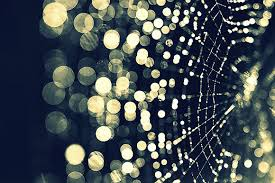
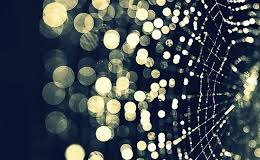
Made adjustments to add responsiveness to the page.  Resized project images to same dimensions.  Fixed CSS typo and inconsistant indentation.

diff --git a/index.html b/index.html
@@ -1,50 +1,51 @@
 <!DOCTYPE HTML>
 <html>
-  <head>
-  	<meta charset="utf-8">
-  	<title>Projects Portfolio</title>
-  	<link rel="stylesheet" type="text/css" href="css/main.css">
-  	<link href='http://fonts.googleapis.com/css?family=Lato:100,300' rel='stylesheet' type='text/css'>
-  </head>
-  <body>
-  	<div class="grid">
-	  	<div class="row">
-	  		<div class="col-6">
-                <img class="udacity-logo" src="img/udacity-logo.png" alt="Udacity Logo">
-	  		</div>
-	  		<div class="col-6">
-	  	        <h1>YANNICK DUBUC</h1>
-	  	        <h4>FRONT-END NINJA</h4>
-	  		</div>
-	  	</div>
-	  	<hr>
-	    <div class="row">
-	    	<div class="col-12">
-	    		<img class="main-image" src="img/codestreams.jpg" alt="Code Streams">
-	    	</div>
-	    </div>
-	    <div class="row">
-	    	<div class="col-12">
-	    		<h2>Featured Work</h2>
-	    	</div>
-	    </div>
-	    <div class="row">
-	    	<div class="col-4">
-                <img class="project-image" src="img/appify.jpg" alt="Appify">
-                <h3>APPIFY</h3>
-                <p>https://github.com/udacity/Appify</p>
-	    	</div>
-	    	<div class="col-4">
-                <img class="project-image" src="img/sunflower.jpg" alt="Sunflower">
-                <h3>SUNFLOWER</h3>
-                <p>https://github.com/udacity/Sunflower</p>
-	    	</div>
-	    	<div class="col-4">
-                <img class="project-image" src="img/bokeh.jpg" alt="Bokeh">
-                <h3>BOKEH</h3>
-                <p>https://github.com/udacity/Bokeh</p>
-	    	</div>
-	    </div>
-    </div>
-  </body>
+    <head>
+        <meta charset="utf-8">
+        <meta name="viewport" content="width=device-width, initial-scale=1">
+        <title>Projects Portfolio</title>
+        <link rel="stylesheet" type="text/css" href="css/main.css">
+        <link href='http://fonts.googleapis.com/css?family=Lato:100,300' rel='stylesheet' type='text/css'>
+    </head>
+    <body>
+        <div class="grid">
+            <div class="row">
+                <div class="col-2">
+                    <img class="udacity-logo" src="img/udacity-logo.png" alt="Udacity Logo">
+                </div>
+                <div class="col-10">
+                    <h1>YANNICK DUBUC</h1>
+                    <h4>FRONT-END NINJA</h4>
+                </div>
+            </div>
+            <hr>
+            <div class="row">
+                <div class="col-12">
+                    <img class="main-image" src="img/codestreams.jpg" alt="Code Streams">
+                </div>
+            </div>
+            <div class="row">
+                <div class="col-12">
+                    <h2>Featured Work</h2>
+                </div>
+            </div>
+            <div class="row">
+                <div class="col-4">
+                    <img class="project-image" src="img/appify.jpg" alt="Appify">
+                    <h3>APPIFY</h3>
+                    <p>https://github.com/udacity/Appify</p>
+                </div>
+                <div class="col-4">
+                    <img class="project-image" src="img/sunflower.jpg" alt="Sunflower">
+                    <h3>SUNFLOWER</h3>
+                    <p>https://github.com/udacity/Sunflower</p>
+                </div>
+                <div class="col-4">
+                    <img class="project-image" src="img/bokeh.jpg" alt="Bokeh">
+                    <h3>BOKEH</h3>
+                    <p>https://github.com/udacity/Bokeh</p>
+                </div>
+            </div>
+        </div>
+    </body>
 </html>

diff --git a/css/main.css b/css/main.css
@@ -1,23 +1,62 @@
 /** {
-	border: 1px solid red !important;
+    border: 1px solid red !important;
 } */
 
 * {
-	-webkit-box-sizing: border-box;
-	-moz-box-sizing: border-box;
-	-ms-box-sizing: border-box;
+    -webkit-box-sizing: border-box;
+    -moz-box-sizing: border-box;
+    -ms-box-sizing: border-box;
     box-sizing: border-box;
 }
 
 * {
-	font-family: 'Lato', sans-serif;
+    font: normal 100% 'Lato', sans-serif;
 }
 
-/* @media only screen and (max-width: 500px) {
-	p {
-		background-color: red;
-	}
-} */
+/* Small screen */
+@media only screen and (max-width: 500px) {
+    h1 {
+        font-size: 30px;
+    }
+
+    h3 {
+        font-size: 18px;
+    }
+
+    p {
+        font-size: 6px;
+    }
+}
+
+/* Medium screen */
+@media only screen and (min-width: 501px) and (max-width: 720px) {
+    h1 {
+        font-size: 40px;
+    }
+
+    h3 {
+        font-size: 24px;
+    }
+
+    p {
+        font-size: 10px;
+    }
+}
+
+/* Large screen */
+@media only screen and (min-width: 721px) {
+    h1 {
+        font-size: 50px;
+    }
+
+    h3 {
+        font-size: 30px;
+    }
+
+    p {
+        font-size: 14px;
+    }
+}
 
 .grid {
     max-width: 960px;
@@ -25,118 +64,115 @@
 }
 
 .row {
-	width: 100%;
-	display: flex;
-	flex-wrap; wrap;
+    width: 100%;
+    display: flex;
+    flex-wrap: wrap;
 }
 
 .col-1 {
-	width: 8.33%;
+    width: 8.33%;
 }
 
 .col-2 {
-	width: 16.67%;
+    width: 16.67%;
 }
 
 .col-3 {
-	width: 25%;
+    width: 25%;
 }
 
 .col-4 {
-	width: 33.33%;
+    width: 33.33%;
 }
 
 .col-5 {
-	width: 41.67%;
+    width: 41.67%;
 }
 
 .col-6 {
-	width: 50%;
+    width: 50%;
 }
 
 .col-7 {
-	width: 58.33%;
+    width: 58.33%;
 }
 
 .col-8 {
-	width: 66.67%;
+    width: 66.67%;
 }
 
 .col-9 {
-	width: 75%;
+    width: 75%;
 }
 
 .col-10 {
-	width: 83.33%;
+    width: 83.33%;
 }
 
 .col-11 {
-	width: 91.67%;
+    width: 91.67%;
 }
 
 .col-12 {
-	width: 100%;
+    width: 100%;
 }
 
 .udacity-logo {
-	width: 100px;
-	height: 100px;
+    width: 100%;
+    max-width: 100px;
 }
 
 .main-image {
-    width: 960px;
-    height: 350px;
+    margin: 0 auto;
+    min-width: 100%;
 }
 
 .project-image {
-	display: block;
-    margin-left: auto;
-    margin-right: auto;
-    height: 160px;
+    display: block;
+    margin: 0 auto;
     padding: 5px;
-    max-width: 240px;
+}
+
+img {
+    max-width: 100%;
 }
 
 hr {
-	border-bottom: 2px solid #bcbbbb;
+    border: 1px solid #bcbbbb;
 }
 
 h1 {
-	font-size: 50px;
-	font-weight: 100;
-	text-align: right;
-	margin: 0 auto;
+    font-weight: 100;
+    text-align: right;
+    margin: 0 auto;
 }
 
 h2 {
-	color: #bcbbbb;
-	font-size: 28px;
-	font-weight: bold;
-	margin: 0 auto;
-	padding-top: 10px;
-	padding-bottom: 10px;
+    color: #bcbbbb;
+    font: normal 28px bold;
+    margin: 0 auto;
+    padding: 10px 0px 10px 0px;
 }
 
 h3 {
-	color: #747704;
-	font-size: 28px;
-	font-weight: bold;
-	margin: 0 auto;
-	text-align: center;
+    color: #747704;
+    font-weight: bold;
+    margin: 0 auto;
+    text-align: center;
+    max-width: 100%
 }
 
 h4 {
-	font-weight: 300;
-	text-align: right;
-	margin: 0 auto;
+    font-weight: 300;
+    text-align: right;
+    margin: 0 auto;
 }
 
 p {
-	color: #747704;
-	font-size: 12px;
-	font-weight: bold;
-	margin: 0 auto;
-	text-align: center;
+    color: #747704;
+    font-weight: bold;
+    margin: 0 auto;
+    text-align: center;
 }
 
 
